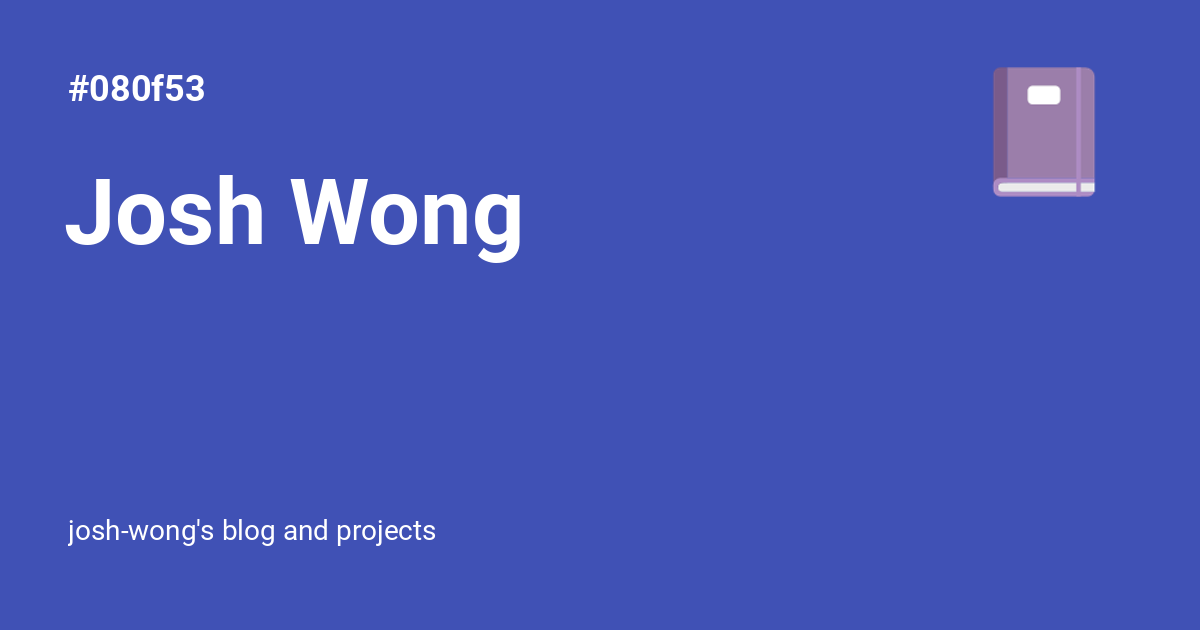
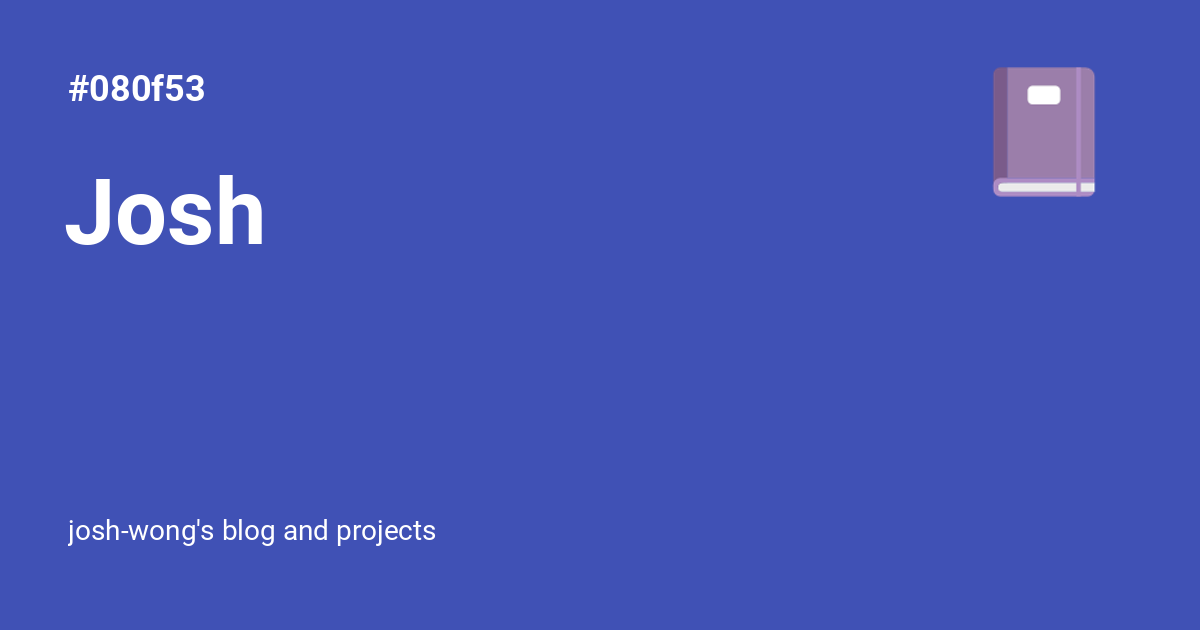
Deployed 29d849ca with MkDocs version: 1.4.2

Changed region(s): [[0.2467, 0.2714, 0.4317, 0.4222]]

diff --git a/about/index.html b/about/index.html
@@ -161,7 +161,7 @@
     <div data-md-component="skip">
       
         
-        <a href="#about-josh" class="md-skip">
+        <a href="#about" class="md-skip">
           Skip to content
         </a>
       
@@ -1371,10 +1371,10 @@
 
 
 
-<h1 id="about-josh">About <abbr title="A technical writer and knowledge management specialist living and working in Tokyo🗼🗾">Josh</abbr><a class="headerlink" href="#about-josh" title="Permanent link">&para;</a></h1>
+<h1 id="about">About<a class="headerlink" href="#about" title="Permanent link">&para;</a></h1>
 <p><img align="right" alt="josh-wong" src="../assets/external/github.com/josh-wong.png.jpg" width="150" /></p>
-<p>Hey there! My name is <strong><abbr title="A technical writer and knowledge management specialist living and working in Tokyo🗼🗾">Josh</abbr></strong>, and I'm a <abbr title="A professional information communicator whose task is to transfer information between two or more parties">technical writer</abbr> and <abbr title="A collection of methods relating to creating, sharing, using, and managing knowledge and information">knowledge management</abbr> specialist living and working in Tokyo🗼🗾</p>
-<p>I enjoy writing, improving user experiences, learning new things, and sharing knowledge💡</p>
+<p>Hey there! My name is <strong><abbr title="A technical writer and knowledge management specialist living and working in Tokyo🗼🗾">Josh</abbr> Wong</strong>, and I'm a <abbr title="A professional information communicator whose task is to transfer information between two or more parties">technical writer</abbr> and <abbr title="A collection of methods relating to creating, sharing, using, and managing knowledge and information">knowledge management</abbr> specialist living and working in Tokyo🗼🗾</p>
+<p>I enjoy writing, sharing knowledge, improving user experiences, and learning new things💡</p>
 <h2 id="why-080f53com">Why <code>080f53.com</code>?<a class="headerlink" href="#why-080f53com" title="Permanent link">&para;</a></h2>
 <p>I like the hex color <a href="https://encycolorpedia.com/080f53" target="_blank" rel="noopener"><strong>#<abbr title="A dark blue-violet color in the hex format">080f53</abbr></strong></a>, which is dark blue-violet.</p>
 <p>Also, finding unique domain names is hard😅</p>
@@ -1467,13 +1467,13 @@
         
         
           
-          <a href=".." class="md-footer__link md-footer__link--next" aria-label="Next: Josh Wong" rel="next">
+          <a href=".." class="md-footer__link md-footer__link--next" aria-label="Next: Josh" rel="next">
             <div class="md-footer__title">
               <div class="md-ellipsis">
                 <span class="md-footer__direction">
                   Next
                 </span>
-                Josh Wong
+                Josh
               </div>
             </div>
             <div class="md-footer__button md-icon">

diff --git a/index.html b/index.html
@@ -33,7 +33,7 @@
     
     
       
-        <title>Josh Wong - #080f53</title>
+        <title>Josh - #080f53</title>
       
     
     
@@ -120,7 +120,7 @@
       
         <meta  property="og:type"  content="website" >
       
-        <meta  property="og:title"  content="Josh Wong - #080f53" >
+        <meta  property="og:title"  content="Josh - #080f53" >
       
         <meta  property="og:description"  content="josh-wong's blog and projects" >
       
@@ -136,7 +136,7 @@
       
         <meta  name="twitter:card"  content="summary_large_image" >
       
-        <meta  name="twitter:title"  content="Josh Wong - #080f53" >
+        <meta  name="twitter:title"  content="Josh - #080f53" >
       
         <meta  name="twitter:description"  content="josh-wong's blog and projects" >
       
@@ -208,7 +208,7 @@
         <div class="md-header__topic" data-md-component="header-topic">
           <span class="md-ellipsis">
             
-              Josh Wong
+              Josh
             
           </span>
         </div>

diff --git a/archive/2023/index.html b/archive/2023/index.html
@@ -1375,7 +1375,7 @@
       <nav class="md-footer__inner md-grid" aria-label="Footer" >
         
           
-          <a href="../.." class="md-footer__link md-footer__link--prev" aria-label="Previous: Josh Wong" rel="prev">
+          <a href="../.." class="md-footer__link md-footer__link--prev" aria-label="Previous: Josh" rel="prev">
             <div class="md-footer__button md-icon">
               <svg xmlns="http://www.w3.org/2000/svg" viewBox="0 0 24 24"><path d="M20 11v2H8l5.5 5.5-1.42 1.42L4.16 12l7.92-7.92L13.5 5.5 8 11h12Z"/></svg>
             </div>
@@ -1384,7 +1384,7 @@
                 <span class="md-footer__direction">
                   Previous
                 </span>
-                Josh Wong
+                Josh
               </div>
             </div>
           </a>
